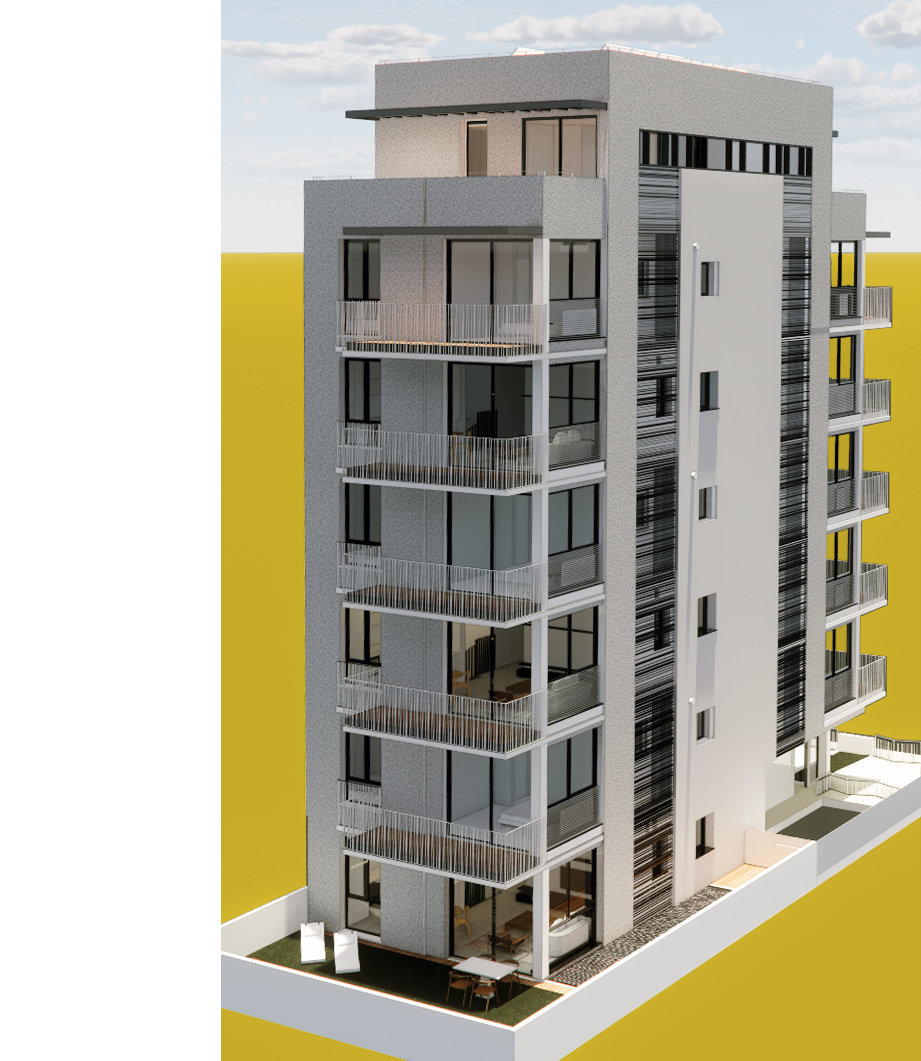
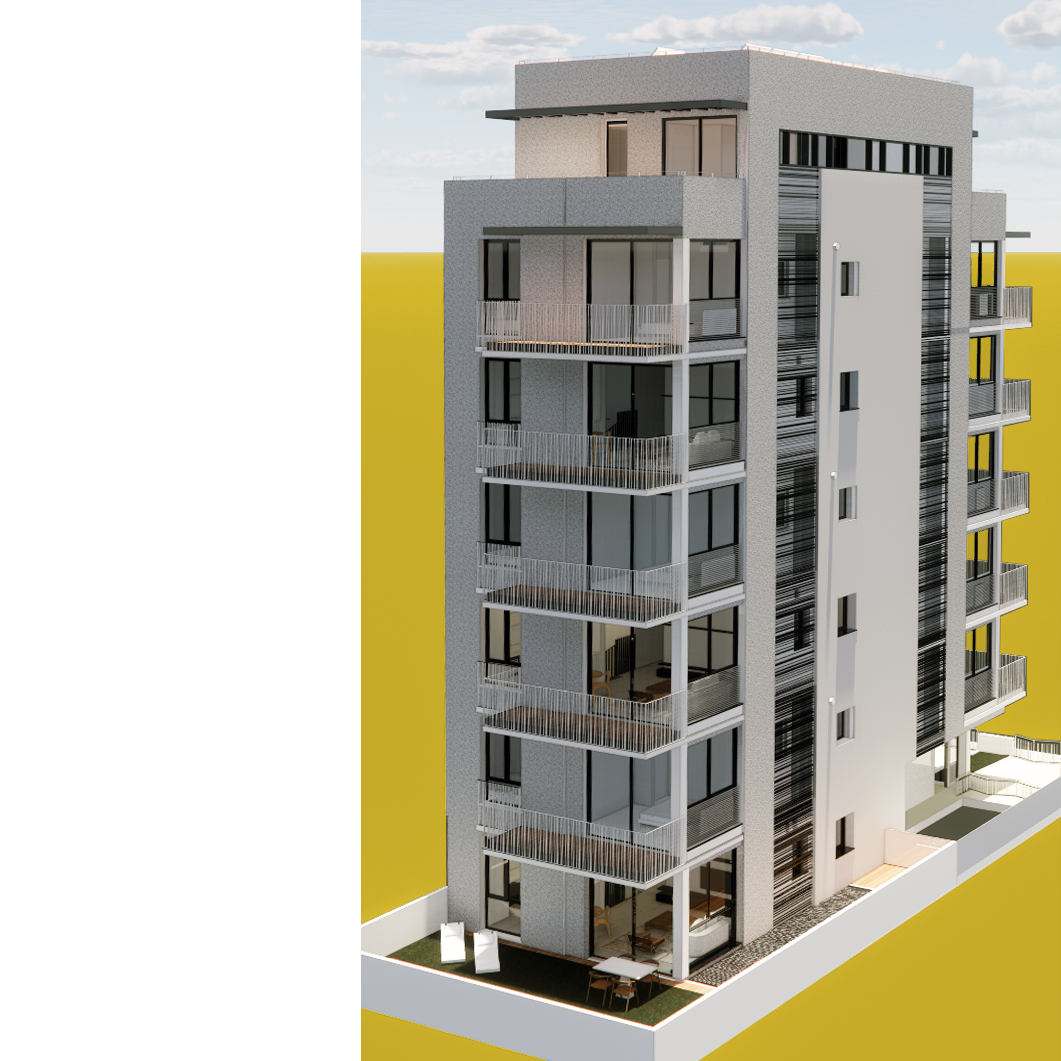
name updates

diff --git a/client-app/src/Content/Projects/Pages/Residential/Projects/Y28.ts b/client-app/src/Content/Projects/Pages/Residential/Projects/Y28.ts
@@ -2,7 +2,7 @@ import { IProjectData } from "Content/Projects/types";
 import Thumbnail from 'resources/Graphics/Projects/Residential/Y28/thumbnail.png';
 import Image1 from 'resources/Graphics/Projects/Residential/Y28/Y28.1-360.380.png';
 import Image2 from 'resources/Graphics/Projects/Residential/Y28/Y28.2-330.160.png';
-import Image3 from 'resources/Graphics/Projects/Residential/Y28/Y28.3-330.160.png';
+import Image3 from 'resources/Graphics/Projects/Residential/Y28/Y28.3-330.380.png';
 
 const data: IProjectData = {
     name: 'Y28',
